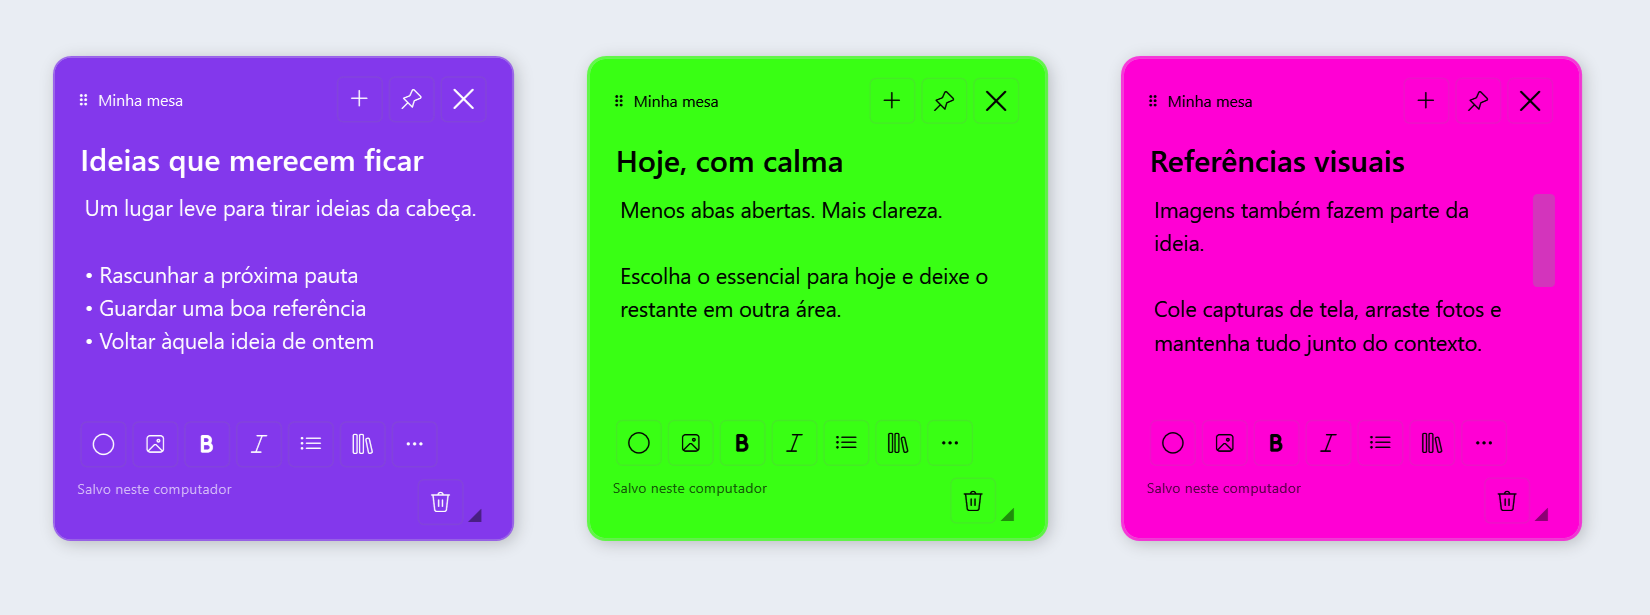
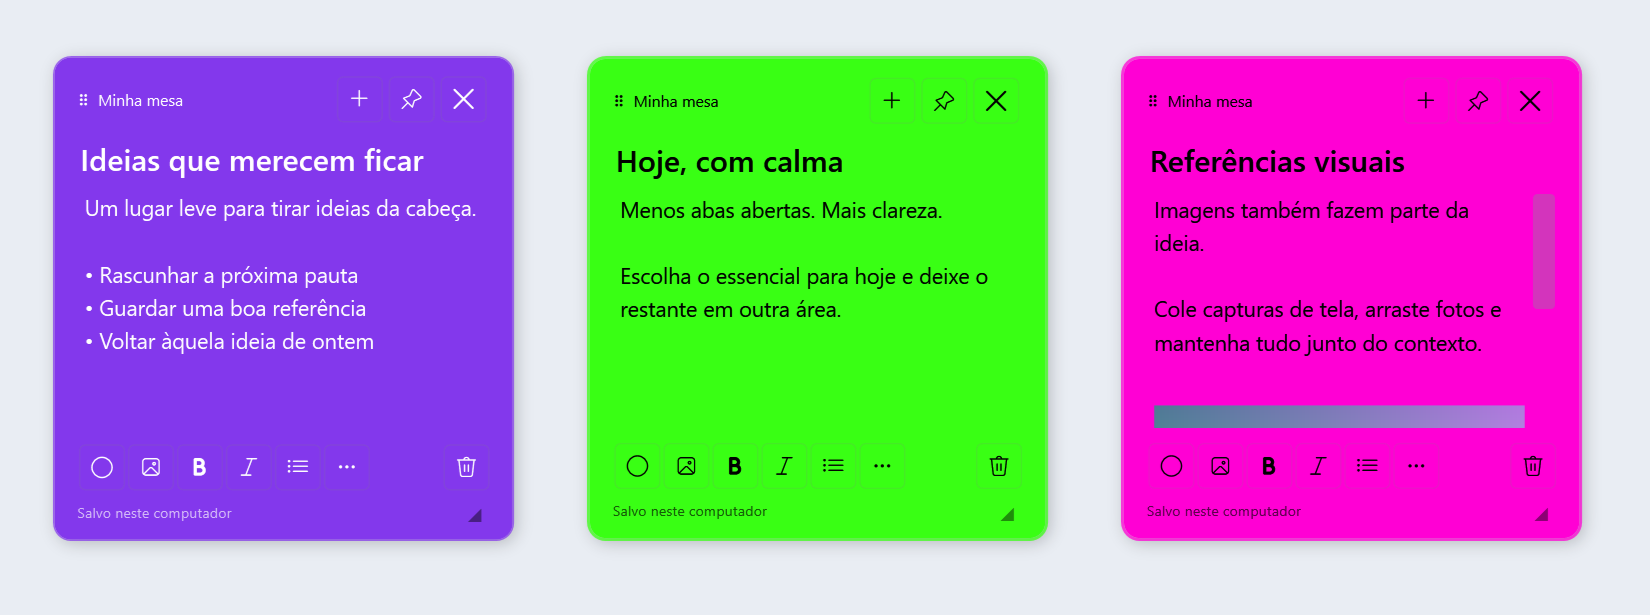
feat: organize 50 colors by style and align trash with bottom actions

diff --git a/src/NoteWindow.cs b/src/NoteWindow.cs
@@ -34,14 +34,13 @@ public sealed class NoteWindow:Window {
   Editor.Document=new FlowDocument{PagePadding=new Thickness(0),FontFamily=FontFamily,FontSize=15,LineHeight=23};Editor.Background=Brushes.Transparent;Editor.Foreground=Foreground;Editor.BorderThickness=new Thickness(0);Editor.Padding=new Thickness(0);Editor.VerticalScrollBarVisibility=ScrollBarVisibility.Auto;Editor.HorizontalScrollBarVisibility=ScrollBarVisibility.Disabled;Editor.AcceptsTab=true;Editor.IsDocumentEnabled=true;Editor.SelectionBrush=Visuals.Brush("#777C83FF");System.Windows.Automation.AutomationProperties.SetName(Editor,"Conteúdo da nota");
   try{app.Store.LoadDocument(note,Editor.Document);}catch(Exception e){throw new InvalidDataException("Não foi possível ler a nota “"+note.Title+"”. O arquivo será preservado.",e);}
   Editor.TextChanged+=(_,_)=>MarkDirty();DataObject.AddPastingHandler(Editor,OnPaste);Editor.PreviewDragOver+=(_,e)=>{if(e.Data.GetDataPresent(DataFormats.FileDrop)){e.Effects=DragDropEffects.Copy;e.Handled=true;}};Editor.PreviewDrop+=(_,e)=>{if(e.Data.GetData(DataFormats.FileDrop) is string[] paths){foreach(var p in paths)AddImageFile(p);e.Handled=true;}};Editor.AllowDrop=true;Grid.SetRow(Editor,2);layout.Children.Add(Editor);
-  var tools=new StackPanel{Orientation=Orientation.Horizontal,Margin=new Thickness(0,10,0,8)};
+  var tools=new StackPanel{Orientation=Orientation.Horizontal};
   colorButton=Visuals.Icon("\uE790","Cor da nota",OpenPalette);tools.Children.Add(colorButton);tools.Children.Add(Visuals.Icon("\uE91B","Adicionar imagem",PickImage));
   tools.Children.Add(Visuals.Icon("\uE8DD","Negrito (Ctrl+B)",()=>{Editor.Focus();EditingCommands.ToggleBold.Execute(null,Editor);}));
   tools.Children.Add(Visuals.Icon("\uE8DB","Itálico (Ctrl+I)",()=>{Editor.Focus();EditingCommands.ToggleItalic.Execute(null,Editor);}));
   tools.Children.Add(Visuals.Icon("\uE8FD","Lista com marcadores",()=>{Editor.Focus();EditingCommands.ToggleBullets.Execute(null,Editor);}));
-  tools.Children.Add(Visuals.Icon("\uE8F1","Todas as notas",()=>app.ShowLibrary()));
-  var more=Visuals.Icon("\uE712","Mais opções",OpenMore);tools.Children.Add(more);Grid.SetRow(tools,3);layout.Children.Add(tools);
-  var footer=new Grid();footer.ColumnDefinitions.Add(new());footer.ColumnDefinitions.Add(new(){Width=GridLength.Auto});footer.ColumnDefinitions.Add(new(){Width=GridLength.Auto});var trash=Visuals.Icon("\uE74D","Excluir nota",RequestDelete);trash.Margin=new Thickness(4,0,2,0);Grid.SetColumn(trash,1);footer.Children.Add(trash);status.Text="Salvo neste computador";footer.Children.Add(status);var resize=new Thumb{Width=16,Height=16,Cursor=Cursors.SizeNWSE,Opacity=.45,Background=Brushes.Transparent,Template=(ControlTemplate)System.Windows.Markup.XamlReader.Parse("<ControlTemplate xmlns='http://schemas.microsoft.com/winfx/2006/xaml/presentation' TargetType='Thumb'><TextBlock Text='◢' FontSize='13'/></ControlTemplate>")};resize.DragDelta+=(_,e)=>{var work=WorkArea(this);Width=Math.Clamp(Width+e.HorizontalChange,Math.Min(MinWidth,work.Width),work.Width);Height=Math.Clamp(Height+e.VerticalChange,Math.Min(MinHeight,work.Height),work.Height);CapturePosition();};resize.DragCompleted+=(_,_)=>Save();resize.VerticalAlignment=VerticalAlignment.Bottom;Grid.SetColumn(resize,2);footer.Children.Add(resize);Grid.SetRow(footer,4);layout.Children.Add(footer);
+  var more=Visuals.Icon("\uE712","Mais opções",OpenMore);tools.Children.Add(more);foreach(Button action in tools.Children)action.Margin=new Thickness(1,0,1,0);var toolbar=new Grid{Margin=new Thickness(0,10,0,8)};toolbar.ColumnDefinitions.Add(new());toolbar.ColumnDefinitions.Add(new(){Width=GridLength.Auto});toolbar.Children.Add(tools);var trash=Visuals.Icon("\uE74D","Excluir nota",RequestDelete);trash.Margin=new Thickness(1,0,0,0);Grid.SetColumn(trash,1);toolbar.Children.Add(trash);Grid.SetRow(toolbar,3);layout.Children.Add(toolbar);
+  var footer=new Grid();footer.ColumnDefinitions.Add(new());footer.ColumnDefinitions.Add(new(){Width=GridLength.Auto});status.Text="Salvo neste computador";footer.Children.Add(status);var resize=new Thumb{Width=16,Height=16,Cursor=Cursors.SizeNWSE,Opacity=.45,Background=Brushes.Transparent,Template=(ControlTemplate)System.Windows.Markup.XamlReader.Parse("<ControlTemplate xmlns='http://schemas.microsoft.com/winfx/2006/xaml/presentation' TargetType='Thumb'><TextBlock Text='◢' FontSize='13'/></ControlTemplate>")};resize.DragDelta+=(_,e)=>{var work=WorkArea(this);Width=Math.Clamp(Width+e.HorizontalChange,Math.Min(MinWidth,work.Width),work.Width);Height=Math.Clamp(Height+e.VerticalChange,Math.Min(MinHeight,work.Height),work.Height);CapturePosition();};resize.DragCompleted+=(_,_)=>Save();resize.VerticalAlignment=VerticalAlignment.Bottom;Grid.SetColumn(resize,1);footer.Children.Add(resize);Grid.SetRow(footer,4);layout.Children.Add(footer);
   saveTimer.Tick+=(_,_)=>Save();LocationChanged+=(_,_)=>{if(ready)CapturePosition();};SizeChanged+=(_,_)=>{if(ready)CapturePosition();};
   PreviewKeyDown+=(_,e)=>{if(e.Key==Key.Escape){Conceal();e.Handled=true;}else if(Keyboard.Modifiers==ModifierKeys.Control&&e.Key==Key.N){app.NewNote();e.Handled=true;}else if(Keyboard.Modifiers==ModifierKeys.Control&&e.Key==Key.S){Save();e.Handled=true;}else if(Keyboard.Modifiers==(ModifierKeys.Control|ModifierKeys.Shift)&&e.Key==Key.H){app.HideNotes();e.Handled=true;}};
   Closing+=(_,e)=>{if(!app.Exiting){e.Cancel=true;Conceal();}};Closed+=(_,_)=>{disposed=true;saveTimer.Stop();};
@@ -65,11 +64,13 @@ public sealed class NoteWindow:Window {
  }
  public void RequestDelete(){if(confirming)return;if(!Save()){Visuals.Error("Salve as alterações antes de excluir a nota.");return;}bool confirmed;confirming=true;try{confirmed=new DeleteConfirmation(this,app.Store.Book.Theme).ShowDialog()==true;}finally{confirming=false;}if(!confirmed)return;try{if(app.Store.MoveToTrash(Note,true))Conceal();}catch(Exception e){Visuals.Error("Não foi possível mover a nota para a lixeira. A nota foi preservada.\n"+e.Message);}}
  static System.Collections.Generic.IEnumerable<T> Descendants<T>(DependencyObject p) where T:DependencyObject{for(int i=0;i<VisualTreeHelper.GetChildrenCount(p);i++){var c=VisualTreeHelper.GetChild(p,i);if(c is T t)yield return t;foreach(var d in Descendants<T>(c))yield return d;}}
- void OpenPalette(){string selectedMode=Note.ColorMode;var panel=new StackPanel{Width=224,Margin=new Thickness(10)};bool dark=Visuals.Dark(app.Store.Book.Theme);var popup=new Popup{Child=new Border{Background=Visuals.Brush(dark?"#292B32":"#FFFFFF"),CornerRadius=new CornerRadius(8),BorderThickness=new Thickness(1),BorderBrush=Visuals.Brush("#808080"),Child=panel},PlacementTarget=colorButton,Placement=PlacementMode.Top,StaysOpen=false,AllowsTransparency=true};
-  void Render(){panel.Children.Clear();var tabs=new StackPanel{Orientation=Orientation.Horizontal};foreach(var pair in new[]{("Soft","Suaves"),("Vivid","Vivas"),("Neon","Neon")}){var tab=Visuals.TextButton(pair.Item2,()=>{selectedMode=pair.Item1;Render();});tab.MinWidth=68;tab.Padding=new Thickness(7,5,7,5);tab.Margin=new Thickness(0,0,5,8);if(pair.Item1==selectedMode){tab.BorderBrush=Visuals.Brush(dark?"#BAB2FF":"#6251BC");tab.BorderThickness=new Thickness(2);}System.Windows.Automation.AutomationProperties.SetName(tab,"Paleta "+pair.Item2);tabs.Children.Add(tab);}panel.Children.Add(tabs);var colors=new WrapPanel();foreach(var hex in NoteColors.Palette(selectedMode)){var c=(Color)ColorConverter.ConvertFromString(hex);var swatch=new Button{Background=Visuals.Brush(hex),Width=44,Height=36,Margin=new Thickness(5),ToolTip=hex,Content=Note.Color==hex&&Note.ColorMode==selectedMode?"✓":"",Foreground=new SolidColorBrush(NoteColors.Text(c))};swatch.Click+=(_,_)=>{Note.Color=hex;Note.ColorMode=selectedMode;ApplyColor();MarkDirty();popup.IsOpen=false;};System.Windows.Automation.AutomationProperties.SetName(swatch,"Cor "+hex);colors.Children.Add(swatch);}panel.Children.Add(colors);panel.Children.Add(Visuals.TextButton("Outra cor…",()=>{popup.IsOpen=false;using var d=new Forms.ColorDialog{FullOpen=true,Color=System.Drawing.ColorTranslator.FromHtml(Note.Color)};if(d.ShowDialog(new NativeOwner(this))==Forms.DialogResult.OK){Note.Color=$"#{d.Color.R:X2}{d.Color.G:X2}{d.Color.B:X2}";Note.ColorMode=selectedMode;ApplyColor();MarkDirty();}}));}Render();popup.IsOpen=true;
+ internal bool BottomButtonsAligned(){UpdateLayout();string[] names={"Cor da nota","Adicionar imagem","Negrito (Ctrl+B)","Itálico (Ctrl+I)","Lista com marcadores","Mais opções","Excluir nota"};var buttons=Descendants<Button>(surface).Where(b=>names.Contains(b.ToolTip as string)).ToArray();if(buttons.Length!=7)return false;var centers=buttons.Select(b=>b.TranslatePoint(new Point(b.ActualWidth/2,b.ActualHeight/2),this)).ToArray();return centers.Max(p=>p.Y)-centers.Min(p=>p.Y)<.5&&buttons.All(b=>{var p=b.TranslatePoint(new Point(),this);return p.X>=12&&p.X+b.ActualWidth<=ActualWidth-12;});}
+ void OpenPalette(){bool dark=Visuals.Dark(app.Store.Book.Theme);var panel=new StackPanel{Width=360,Margin=new Thickness(12)};panel.Children.Add(new TextBlock{Text="50 cores para sua nota",FontSize=15,FontWeight=FontWeights.SemiBold,Foreground=Visuals.Brush(dark?"#F5F5F7":"#252730"),Margin=new Thickness(0,0,0,8)});var popup=new Popup{PlacementTarget=colorButton,Placement=PlacementMode.Top,StaysOpen=false,AllowsTransparency=true};
+  foreach(var row in NoteColors.Rows){panel.Children.Add(new TextBlock{Text=row.Name,FontSize=11,Foreground=Visuals.Brush(dark?"#D5D5DD":"#555561"),Margin=new Thickness(2,5,0,3)});var colors=new StackPanel{Orientation=Orientation.Horizontal};foreach(var hex in row.Colors){var c=(Color)ColorConverter.ConvertFromString(hex);var swatch=new Button{Background=Visuals.Brush(hex),Width=32,Height=32,Margin=new Thickness(2),ToolTip=row.Name+" · "+hex,Content=Note.Color==hex&&(Note.ColorMode==row.Mode||(Note.ColorMode=="Soft"&&row.Mode=="Pastel"))?"✓":"",Foreground=new SolidColorBrush(NoteColors.Text(c)),BorderBrush=Visuals.Brush("#60808080"),BorderThickness=new Thickness(1)};swatch.Click+=(_,_)=>{Note.Color=hex;Note.ColorMode=row.Mode;ApplyColor();MarkDirty();popup.IsOpen=false;};System.Windows.Automation.AutomationProperties.SetName(swatch,"Cor "+row.Name+" "+hex);colors.Children.Add(swatch);}panel.Children.Add(colors);}
+  panel.Children.Add(Visuals.TextButton("Outra cor…",()=>{popup.IsOpen=false;using var d=new Forms.ColorDialog{FullOpen=true,Color=System.Drawing.ColorTranslator.FromHtml(Note.Color)};if(d.ShowDialog(new NativeOwner(this))==Forms.DialogResult.OK){Note.Color=$"#{d.Color.R:X2}{d.Color.G:X2}{d.Color.B:X2}";Note.ColorMode="Normal";ApplyColor();MarkDirty();}}));var scroll=new ScrollViewer{Content=panel,MaxHeight=Math.Min(460,SystemParameters.WorkArea.Height-32),VerticalScrollBarVisibility=ScrollBarVisibility.Auto,HorizontalScrollBarVisibility=ScrollBarVisibility.Disabled};popup.Child=new Border{Background=Visuals.Brush(dark?"#292B32":"#FFFFFF"),CornerRadius=new CornerRadius(8),BorderThickness=new Thickness(1),BorderBrush=Visuals.Brush("#808080"),Child=scroll};popup.IsOpen=true;
  }
  void OpenAreas(){var menu=new ContextMenu();foreach(var area in app.Store.Book.Areas){var item=new MenuItem{Header=area,IsCheckable=true,IsChecked=Note.Area==area};item.Click+=(_,_)=>{Note.Area=area;areaLabel.Text="⠿  "+area;MarkDirty();Save();if(area!=app.Store.Book.ActiveArea)Hide();};menu.Items.Add(item);}menu.IsOpen=true;}
- void OpenMore(){var menu=new ContextMenu();void Add(string name,Action action){var m=new MenuItem{Header=name};m.Click+=(_,_)=>action();menu.Items.Add(m);}Add("Mover para outra área",OpenAreas);Add("Organizar notas em grade",app.Arrange);Add("Configurações",()=>app.ShowLibrary(true));menu.Items.Add(new Separator());Add("Mover para a lixeira",RequestDelete);menu.IsOpen=true;}
+ void OpenMore(){var menu=new ContextMenu();void Add(string name,Action action){var m=new MenuItem{Header=name};m.Click+=(_,_)=>action();menu.Items.Add(m);}Add("Todas as notas",()=>app.ShowLibrary());Add("Mover para outra área",OpenAreas);Add("Organizar notas em grade",app.Arrange);Add("Configurações",()=>app.ShowLibrary(true));menu.Items.Add(new Separator());Add("Mover para a lixeira",RequestDelete);menu.IsOpen=true;}
  void PickImage(){var d=new OpenFileDialog{Title="Adicionar imagem à nota",Filter="Imagens|*.png;*.jpg;*.jpeg;*.webp;*.bmp;*.gif;*.tif;*.tiff",Multiselect=true};if(d.ShowDialog(this)==true)foreach(var path in d.FileNames)AddImageFile(path);}
  void OnPaste(object sender,DataObjectPastingEventArgs e){if(e.DataObject.GetDataPresent(DataFormats.Bitmap)&&e.DataObject.GetData(DataFormats.Bitmap) is BitmapSource bitmap){e.CancelCommand();InsertImage(bitmap);}else if(e.DataObject.GetDataPresent(DataFormats.FileDrop)&&e.DataObject.GetData(DataFormats.FileDrop) is string[] paths){e.CancelCommand();foreach(var p in paths)AddImageFile(p);}}
  public void AddImageFile(string path){try{var info=new FileInfo(path);if(info.Length>30*1024*1024)throw new InvalidDataException("Use uma imagem de até 30 MB.");using var file=File.OpenRead(path);var decoder=BitmapDecoder.Create(file,BitmapCreateOptions.DelayCreation,BitmapCacheOption.None);int width=decoder.Frames[0].PixelWidth;file.Position=0;var image=new BitmapImage();image.BeginInit();image.CacheOption=BitmapCacheOption.OnLoad;image.DecodePixelWidth=Math.Min(1600,width);image.StreamSource=file;image.EndInit();image.Freeze();InsertImage(image);}catch(Exception e){Visuals.Error("Não foi possível adicionar a imagem. "+e.Message);}}

diff --git a/src/SelfTests.cs b/src/SelfTests.cs
@@ -16,7 +16,8 @@ internal static class SelfTests {
   var app=(NotesApp)Application.Current;app.Store=new Store(root);app.DataRoot=root;Note? note=null;
   Check("Automatic colors: first 32 unique",()=>Assert(Enumerable.Range(0,32).Select(Store.NextColor).Distinct().Count()==32,"Repeated automatic color"));
   Check("New color also avoids manually chosen colors",()=>{var colors=new Store(Path.Combine(root,"colors"));var a=colors.Create();a.Color=Store.Palette[1];colors.Save();var b=colors.Create();Assert(a.Color!=b.Color,"Manual color was repeated");});
-  Check("Vivid and neon colors remain saturated with readable text in both themes",()=>{foreach(string mode in new[]{"Soft","Vivid","Neon"})foreach(bool dark in new[]{true,false})foreach(string hex in NoteColors.Palette(mode)){var background=NoteColors.Surface(hex,mode,dark);Assert(NoteColors.Contrast(background,NoteColors.Text(background))>=4.5,"Unreadable color: "+hex);if(mode!="Soft")Assert(background==(Color)ColorConverter.ConvertFromString(hex),"Strong color was muted");}});
+  Check("Vivid and neon colors remain saturated with readable text in both themes",()=>{foreach(string mode in new[]{"Soft","Normal","Pastel","Vivid","Neon","Earth"})foreach(bool dark in new[]{true,false})foreach(string hex in NoteColors.Palette(mode)){var background=NoteColors.Surface(hex,mode,dark);Assert(NoteColors.Contrast(background,NoteColors.Text(background))>=4.5,"Unreadable color: "+hex);if(mode!="Soft")Assert(background==(Color)ColorConverter.ConvertFromString(hex),"Strong color was muted");}});
+  Check("Color selector provides 50 unique presets in five rows of ten",()=>{var rows=NoteColors.Rows;Assert(rows.Length==5&&rows.All(r=>r.Colors.Length==10)&&rows.SelectMany(r=>r.Colors).Distinct(StringComparer.OrdinalIgnoreCase).Count()==50,"Palette count or organization is incorrect");});
   Check("Legacy notes retain soft appearance and their saved color",()=>{string dir=Path.Combine(root,"legacy");var old=new Store(dir);var n=old.Create();n.Color="#EDAFC5";old.Save();string path=Path.Combine(dir,"notebook.json");var json=System.Text.Json.Nodes.JsonNode.Parse(File.ReadAllText(path))!;json["Notes"]![0]!.AsObject().Remove("ColorMode");File.WriteAllText(path,json.ToJsonString());var loaded=new Store(dir).Book.Notes.Single();Assert(loaded.ColorMode=="Soft"&&loaded.Color=="#EDAFC5","Legacy appearance changed");});
   Check("Create, title, area and position persist",()=>{note=app.Store.Create();note.Title="Teste com acentuação — ideia";note.Left=-120;note.Top=72;app.Store.Book.Areas.Add("Projetos");note.Area="Projetos";app.Store.Save();var s=new Store(root);var n=s.Book.Notes.Single();Assert(n.Title==note.Title&&n.Left==-120&&n.Area=="Projetos","Metadata did not round-trip");});
   NoteWindow? window=null;

diff --git a/src/NoteColors.cs b/src/NoteColors.cs
@@ -3,10 +3,14 @@ using System.Windows.Media;
 
 namespace StickyNotes;
 internal static class NoteColors {
- public static readonly string[] Vivid={"#FFBE0B","#FB5607","#FF006E","#8338EC","#2463EB","#00B8D9","#00B86B","#EF4444"};
- public static readonly string[] Neon={"#CCFF00","#39FF14","#00FFCC","#00E5FF","#FF00D4","#FF5F1F","#FFF700","#BF5FFF"};
- public static string[] Palette(string mode)=>mode switch{"Vivid"=>Vivid,"Neon"=>Neon,_=>Store.Palette};
- public static Color Surface(string hex,string mode,bool dark){var c=(Color)ColorConverter.ConvertFromString(hex);if(mode is "Vivid" or "Neon")return c;return dark?Color.FromRgb((byte)(24+c.R*.13),(byte)(26+c.G*.13),(byte)(29+c.B*.13)):Color.FromRgb((byte)(c.R*.38+255*.62),(byte)(c.G*.38+255*.62),(byte)(c.B*.38+255*.62));}
+ public static readonly string[] Normal={"#E76F51","#F4A261","#E9C46A","#A9C46C","#76B58A","#5BAFA8","#6499C9","#867BC5","#B17AB3","#D982A6"};
+ public static readonly string[] Pastel={"#EDAFC5","#F0BE95","#F5D97E","#D8E5AD","#A5D8BF","#A8D8D5","#A6CDEE","#B9B0ED","#F2BDD9","#D1C3B4"};
+ public static readonly string[] Vivid={"#EF4444","#FB5607","#FFBE0B","#A3C900","#00B86B","#00B8D9","#2463EB","#8338EC","#C026D3","#FF006E"};
+ public static readonly string[] Neon={"#FF3131","#FF5F1F","#FFF700","#CCFF00","#39FF14","#00FFCC","#00E5FF","#7A00FF","#BF5FFF","#FF00D4"};
+ public static readonly string[] Earth={"#B65C46","#C98A57","#BB9B49","#92985D","#628568","#58817E","#647C91","#81708D","#A87886","#8F8175"};
+ public static readonly (string Mode,string Name,string[] Colors)[] Rows={("Normal","Normal",Normal),("Pastel","Pastel",Pastel),("Vivid","Vivas",Vivid),("Neon","Neon",Neon),("Earth","Terrosas",Earth)};
+ public static string[] Palette(string mode)=>mode switch{"Normal"=>Normal,"Pastel"=>Pastel,"Vivid"=>Vivid,"Neon"=>Neon,"Earth"=>Earth,_=>Store.Palette};
+ public static Color Surface(string hex,string mode,bool dark){var c=(Color)ColorConverter.ConvertFromString(hex);if(mode is "Normal" or "Pastel" or "Vivid" or "Neon" or "Earth")return c;return dark?Color.FromRgb((byte)(24+c.R*.13),(byte)(26+c.G*.13),(byte)(29+c.B*.13)):Color.FromRgb((byte)(c.R*.38+255*.62),(byte)(c.G*.38+255*.62),(byte)(c.B*.38+255*.62));}
  static double Luminance(Color c){double Linear(byte value){double s=value/255d;return s<=.04045?s/12.92:Math.Pow((s+.055)/1.055,2.4);}return .2126*Linear(c.R)+.7152*Linear(c.G)+.0722*Linear(c.B);}
  public static double Contrast(Color a,Color b){double x=Luminance(a),y=Luminance(b);return (Math.Max(x,y)+.05)/(Math.Min(x,y)+.05);}
  public static Color Text(Color background)=>Contrast(background,Colors.Black)>=Contrast(background,Colors.White)?Colors.Black:Colors.White;

diff --git a/src/LiveVerification.cs b/src/LiveVerification.cs
@@ -21,6 +21,7 @@ internal sealed class LiveVerification {
    var windows=app.NoteWindows.Values.ToList();Check("All notes visible",windows.All(w=>w.IsVisible));Check("Native windows absent from taskbar",windows.All(w=>!w.ShowInTaskbar&&(GetWindowLongPtr(new WindowInteropHelper(w).Handle,-20).ToInt64()&0x40000)==0));
    Check("Positions restored without collapsing into cascade",windows.Select(w=>(w.Left,w.Top)).Distinct().Count()==3);
    foreach(var w in windows)Check("Note inside monitor work area: "+w.Note.Title,NoteWindow.WorkArea(w).Contains(new Rect(w.Left,w.Top,w.Width,w.Height)));
+   Check("Trash aligns with all other bottom actions",windows.All(w=>w.BottomButtonsAligned()));var narrow=windows[0];double previousWidth=narrow.Width;narrow.Width=300;Check("Bottom actions fit and align at minimum note width",narrow.BottomButtonsAligned());narrow.Width=previousWidth;
    var moved=windows[0];var area=NoteWindow.WorkArea(moved);double x=area.Left+93,y=area.Top+117;moved.Left=x;moved.Top=y;moved.Save();moved.FitToScreen();Check("Free placement is not snapped or reset",Math.Abs(moved.Left-x)<1&&Math.Abs(moved.Top-y)<1);moved.Save();var restored=new Store(app.DataRoot).Book.Notes.Single(n=>n.Id==moved.Note.Id);Check("Moved position survives reload",Math.Abs(restored.Left-x)<1&&Math.Abs(restored.Top-y)<1);
    app.HideNotes();break;
   case 2:Check("Hide animation finishes and keeps process alive",app.NoteWindows.Values.All(w=>!w.IsVisible));app.HandleTrayClick();break;

diff --git a/README.md b/README.md
@@ -6,6 +6,8 @@
 
 ![Notas demonstrativas no tema claro](docs/images/preview-claro.png)
 
+![Seletor com 50 cores em cinco paletas](docs/images/palette-50.png)
+
 Notas adesivas para Windows 11, com a mesma linguagem dos widgets de áudio e calendário: Segoe UI Variable, controles Fluent, cantos arredondados e transições curtas que respeitam a configuração de animações do Windows.
 
 ## Usar
@@ -15,11 +17,11 @@ Notas adesivas para Windows 11, com a mesma linguagem dos widgets de áudio e ca
 - **Arraste pela faixa superior**, ao lado dos botões, para posicionar a nota livremente na área de trabalho. A posição continua salva ao reabrir. Arraste o canto inferior direito para redimensionar.
 - **Edite o título e escreva no corpo.** Ctrl+B e Ctrl+I formatam o texto; o botão de lista insere marcadores.
 - **Imagens:** cole com Ctrl+V, arraste um arquivo para o corpo ou use o botão de imagem. A imagem é incorporada à nota: o arquivo original pode ser movido depois. Imagens grandes são reduzidas para até 1.600 pixels de largura; arquivos de até 30 MB. Formatos dependem dos decodificadores presentes no Windows; PNG e JPEG são as opções mais seguras.
-- **Cor:** clique na amostra colorida e escolha **Suaves**, **Vivas** ou **Neon**, ou uma cor personalizada. Vivas e Neon preservam a saturação mesmo no tema escuro; o texto alterna automaticamente entre preto e branco para manter contraste. Cores automáticas evitam as já usadas pelas notas ativas, inclusive as escolhidas manualmente.
+- **Cor:** clique na amostra colorida e escolha entre **50 cores**, organizadas em cinco linhas de dez: **Normal**, **Pastel**, **Vivas**, **Neon** e **Terrosas**, ou uma cor personalizada. Vivas e Neon preservam a saturação mesmo no tema escuro; o texto alterna automaticamente entre preto e branco para manter contraste. Cores automáticas evitam as já usadas pelas notas ativas, inclusive as escolhidas manualmente.
 - **Alfinete:** mantém a nota acima das outras janelas. Sem fixar, a nota continua aberta e pode ficar atrás dos seus aplicativos.
 - **X ou Esc:** oculta a nota; não a exclui. O clique na bandeja a traz de volta. Ctrl+Shift+H oculta todas.
 - **Áreas:** crie áreas em Configurações e selecione a área ativa em Notas e áreas. No menu da nota, escolha “Mover para outra área”. São grupos próprios do app, não áreas de trabalho virtuais do Windows.
-- **Lixeira:** use o botão no canto inferior direito da nota ou o menu “Mais opções”. Ambos pedem confirmação; Cancelar é a ação padrão. A nota só é movida após confirmar “Excluir nota” e pode ser restaurada pelo painel. Esta versão não faz exclusão definitiva nem esvazia a lixeira automaticamente.
+- **Lixeira:** use o botão à direita da barra inferior, alinhado com os demais controles ou o menu “Mais opções”. Ambos pedem confirmação; Cancelar é a ação padrão. A nota só é movida após confirmar “Excluir nota” e pode ser restaurada pelo painel. Esta versão não faz exclusão definitiva nem esvazia a lixeira automaticamente.
 
 ## Instalação e dados
 

diff --git a/docs/release-notes.md b/docs/release-notes.md
@@ -1,8 +1,8 @@
 # Windows Sticky Notes 1.2.0
 
-- Paletas Suaves, Vivas e Neon, com cor forte real e contraste automático de texto nos temas claro e escuro.
+- 50 cores em cinco linhas de dez: Normal, Pastel, Vivas, Neon e Terrosas, com cor forte real e contraste automático de texto nos temas claro e escuro.
 - Faixa superior ampliada para arraste livre; a posição permanece salva e não é encaixada em grade automaticamente.
-- Botão de lixeira no canto inferior direito de cada nota. Botão e menu usam a mesma confirmação, com Cancelar como padrão.
+- Botão de lixeira à direita, alinhado com os demais botões da base de cada nota. Botão e menu usam a mesma confirmação, com Cancelar como padrão.
 - Excluir a última nota não recria uma nota de boas-vindas ao reiniciar.
 - Exclusão recuperável e reversão do estado se a gravação falhar. Notas existentes preservam cores suaves, textos, imagens e posições.
 
